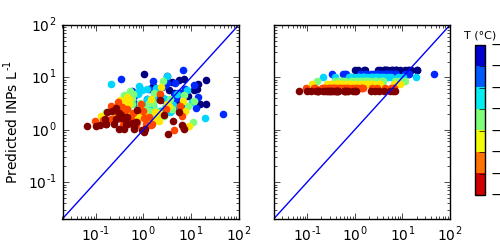
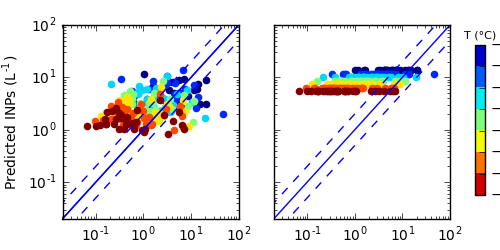
minor corrections to figures for second paper

diff --git a/correlation_by_avDEMOTT.py b/correlation_by_avDEMOTT.py
@@ -152,8 +152,8 @@ colors = iter(cm.jet(np.linspace(0, 1, len_T)))
 
 ax.set_xscale('log')
 ax.set_yscale('log')
-ax.set_xlabel('Observed INPs $\mathregular{L^{-1}}$')
-ax.set_ylabel('Predicted INPs $\mathregular{L^{-1}}$')
+ax.set_xlabel('Observed INPs ($\mathregular{L^{-1}}$)')
+ax.set_ylabel('Predicted INPs ($\mathregular{L^{-1}}$)')
 ax.set_xlim(0.02,100)
 ax.set_ylim(0.02,100)
  
@@ -166,15 +166,33 @@ ax.plot(q,r)
 
 ax1.set_xscale('log')
 ax1.set_yscale('log')
-ax1.set_xlabel('Observed INPs $\mathregular{L^{-1}}$')
+ax1.set_xlabel('Observed INPs ($\mathregular{L^{-1}}$)')
 #ax1.set_ylabel('Predicted INPs $\mathregular{L^{-1}}$')
 ax1.set_xlim(0.02,100)
 ax1.set_ylim(0.02,100)
  
 q=[0.01,100]
 r=[0.01,100]
-ax1.plot(q,r)
 
+q_half=[0.01, 100]
+r_half=[0.02, 200]
+
+q_double=[0.01, 100]
+r_double=[0.005, 50]
+
+
+
+
+
+ax1.plot(q,r)
+ax1.plot(q_half,r_half, color = 'b', linestyle = 'dashed')
+ax1.plot(q_double,r_double, color = 'b', linestyle = 'dashed')
+
+
+
+ax.plot(q,r, color = 'b')
+ax.plot(q_half,r_half, color = 'b', linestyle = 'dashed')
+ax.plot(q_double,r_double, color = 'b', linestyle = 'dashed')
 
 T_list=[]
 meyers_list=[]
@@ -364,7 +382,7 @@ for T in range (min_T,max_T, step):
     y=data['demott']
     color = next(colors)
     ax.scatter(x,y,color=color)
-
+    
 
     data['meyers']=[meyers(T) for i in range(len(data))]
     T_list.append(T)

diff --git a/binned_v_unbinned.py b/binned_v_unbinned.py
@@ -16,8 +16,8 @@ raw = pd.read_csv(farmdirs['pickels'] + 'INPs_trim_witherrs.csv')
 fig, ax = plt.subplots(figsize = (4,4))
 ax.plot(raw['T'], raw['INPs_perL'], lw=0, marker ='o', alpha = 0.7)
 ax.plot(binned['T'], binned['INP'], lw=0, marker ='o', color = 'r')
-ax.set_xlabel('T ('+degree_sign+'C)',fontsize =14)
-ax.set_ylabel('[INP] $\mathregular{L^{-1}}$', fontsize=14)
+ax.set_xlabel('T ('+degree_sign+'C)',fontsize =12)
+ax.set_ylabel('# INPs ($\mathregular{L^{-1}}$)', fontsize=12)
 
 ax.set_yscale('log')
 

diff --git a/petters comparison.py b/petters comparison.py
@@ -49,7 +49,7 @@ ax.errorbar(past_data.Mason_T, past_data.Mason_INP, yerr=yerr,
 ax.set_yscale('log')
 ax.set_yscale('log')
 ax.set_xlabel('T ('+degree_sign+'C)')
-ax.set_ylabel('INPs $\mathregular{L^{-1}}$')
+ax.set_ylabel('INPs ($\mathregular{L^{-1}}$)')
 ax.grid()
 plt.xlim(-30, -4)
 plt.legend(scatterpoints=1,numpoints =1, loc =3, fontsize = 10)
